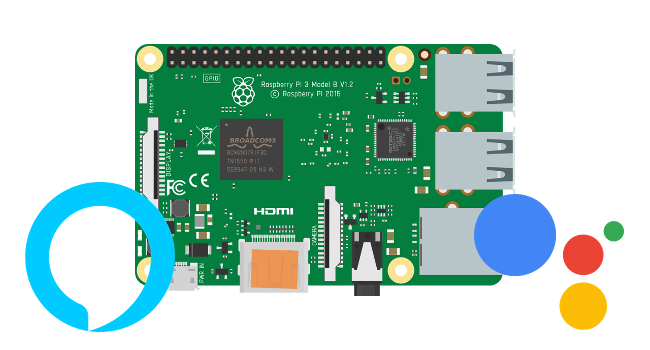
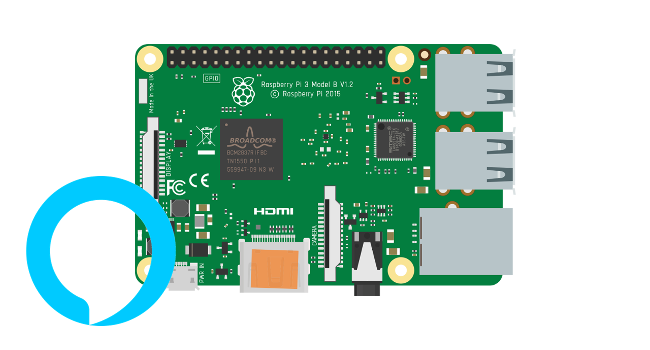
Index Adjustments

diff --git a/index.html b/index.html
@@ -128,20 +128,22 @@
 
     -->
 
+    <section class="bg text-black">
+      <div class="container text-center">
+        <h2 class="mb-4">First, To Flash the Operating System You'll Need Something Like Etcher</h2>
+        <a class="btn btn-dark btn-xl sr-button" href="https://etcher.io/" >Download Etcher</a>
+      </div>
+    </section>
+
     <section class="bg-dark text-white" id="startpoint">
       <div class="container text-center">
-        <h2 class="mb-4">Start by Downloading Raspbian, or your OS</h2>
+        <h2 class="mb-4">Pick an Operating System</h2>
         <a class="btn btn-light btn-xl sr-button" href="https://www.raspberrypi.org/downloads/raspbian/" target="_blank" >Download Raspbian</a>
         <a class="btn btn-info btn-xl sr-button" href="https://elinux.org/RPi_Distributions#Comparison" target="_blank" >Download Other OS</a>
       </div>
     </section>
 
-    <section class="bg text-black">
-      <div class="container text-center">
-        <h2 class="mb-4">Then Download Etcher</h2>
-        <a class="btn btn-dark btn-xl sr-button" href="https://etcher.io/" >Download Etcher</a>
-      </div>
-    </section>
+
 
     <section class="bg-dark text-white">
       <div class="container text-center">
@@ -154,7 +156,7 @@
       <div class="container-fluid p-0">
         <div class="row no-gutters popup-gallery">
           <div class="col-lg-4 col-sm-6">
-            <a class="portfolio-box" href="img/portfolio/fullsize/1.png">
+            <a class="portfolio-box" href="https://retropie.org.uk/download/">
               <img class="img-fluid" src="img/portfolio/thumbnails/1.png" alt="">
               <div class="portfolio-box-caption">
                 <div class="portfolio-box-caption-content">
@@ -169,7 +171,7 @@
             </a>
           </div>
           <div class="col-lg-4 col-sm-6">
-            <a class="portfolio-box" href="img/portfolio/fullsize/2.png">
+            <a class="portfolio-box" href="https://github.com/ccrisan/motioneyeos/releases">
               <img class="img-fluid" src="img/portfolio/thumbnails/2.png" alt="">
               <div class="portfolio-box-caption">
                 <div class="portfolio-box-caption-content">
@@ -192,31 +194,32 @@
                     Raspberry Pi
                   </div>
                   <div class="project-name">
-                    Alexa | Google Assistant
+                    Alexa
                   </div>
                 </div>
               </div>
             </a>
           </div>
-          <!-- Projects 4-6
+
           <div class="col-lg-4 col-sm-6">
-            <a class="portfolio-box" href="img/portfolio/fullsize/4.jpg">
-              <img class="img-fluid" src="img/portfolio/thumbnails/4.jpg" alt="">
+            <a class="portfolio-box" href="img/portfolio/fullsize/4.png">
+              <img class="img-fluid" src="img/portfolio/thumbnails/4.png" alt="">
               <div class="portfolio-box-caption">
                 <div class="portfolio-box-caption-content">
                   <div class="project-category text-faded">
                     Raspberry Pi
                   </div>
                   <div class="project-name">
-                    Misc
+                    Google Assistant
                   </div>
                 </div>
               </div>
             </a>
           </div>
+
           <div class="col-lg-4 col-sm-6">
-            <a class="portfolio-box" href="img/portfolio/fullsize/5.jpg">
-              <img class="img-fluid" src="img/portfolio/thumbnails/5.jpg" alt="">
+            <a class="portfolio-box" href="img/portfolio/fullsize/5.png">
+              <img class="img-fluid" src="img/portfolio/thumbnails/5.png" alt="">
               <div class="portfolio-box-caption">
                 <div class="portfolio-box-caption-content">
                   <div class="project-category text-faded">
@@ -229,9 +232,10 @@
               </div>
             </a>
           </div>
+
           <div class="col-lg-4 col-sm-6">
-            <a class="portfolio-box" href="img/portfolio/fullsize/6.jpg">
-              <img class="img-fluid" src="img/portfolio/thumbnails/6.jpg" alt="">
+            <a class="portfolio-box" href="img/portfolio/fullsize/6.png">
+              <img class="img-fluid" src="img/portfolio/thumbnails/6.png" alt="">
               <div class="portfolio-box-caption">
                 <div class="portfolio-box-caption-content">
                   <div class="project-category text-faded">
@@ -244,7 +248,7 @@
               </div>
             </a>
           </div>
-          -->
+
         </div>
       </div>
     </section>
